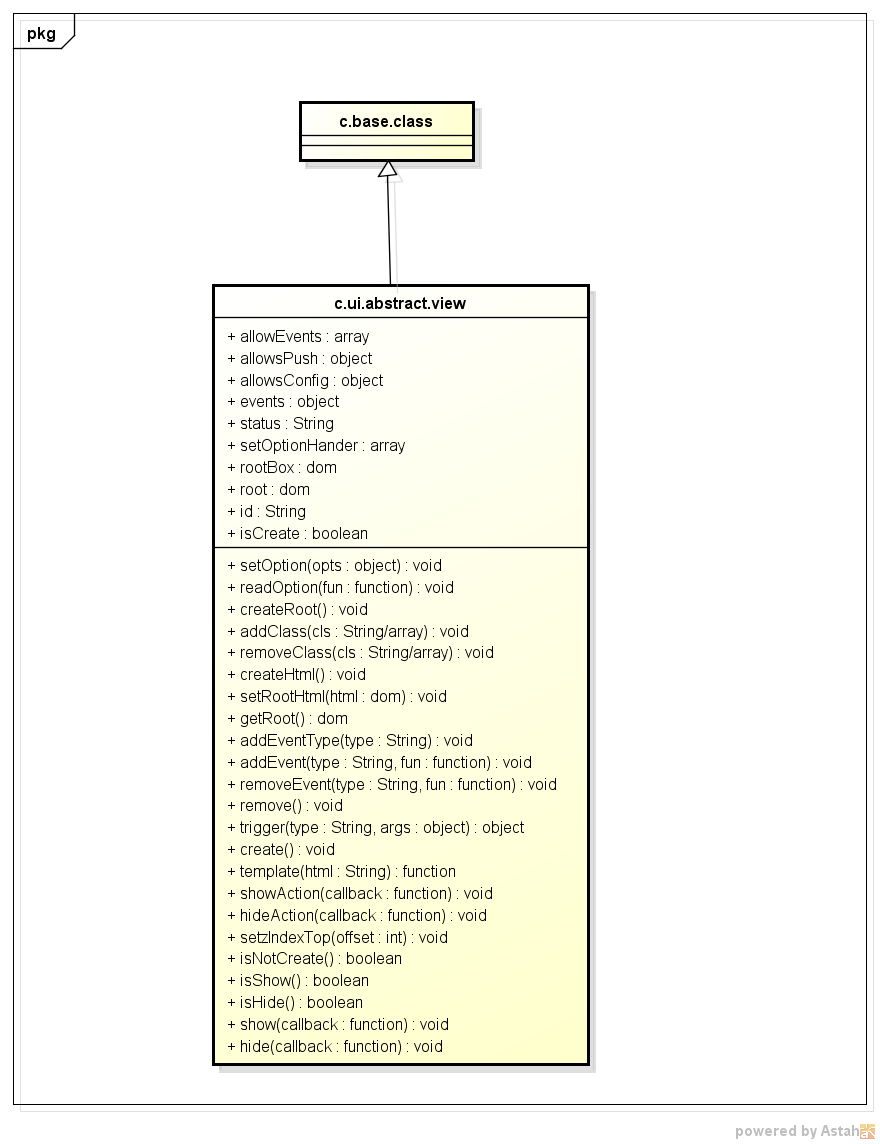
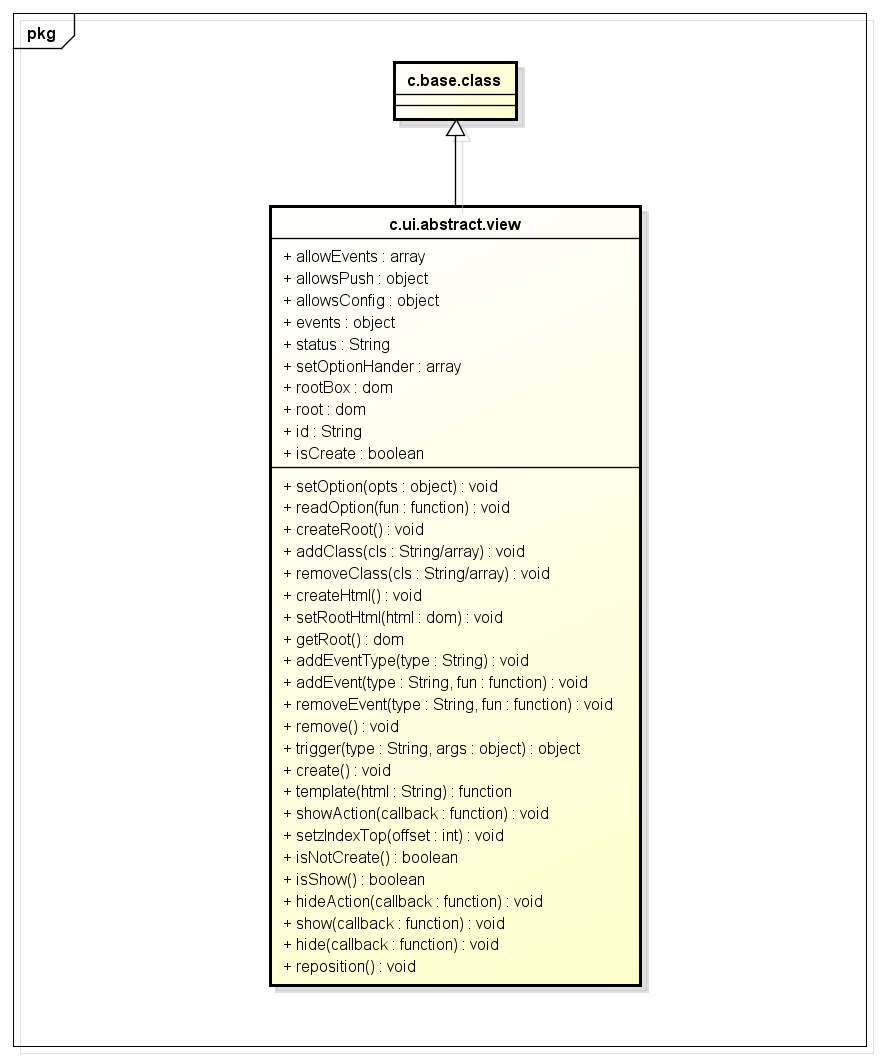
重构

diff --git a/doc/ui/c.ui.alert.md b/doc/ui/c.ui.alert.md
@@ -15,8 +15,7 @@
     // @param title {String}                标题
     // @param message {String}              内容体
     // @param buttons {array}               需要生成的按钮
-    // @param hashObervers {array}          监视hash变化（比如有弹出框点击后退时会关闭弹出框）
-    // @param autoPositionHander {function} 重置root高宽，让他占满屏幕
+    // @param viewdata {object}             模板视图文本
 
 ### Method
 
@@ -50,20 +49,6 @@
     // 返回模板组装后的html
     createHtml: function () { ... }
 
-**public autoposition**
-
-    // 视图位置还原（resize事件绑定）
-    autoposition: function () { ... }
-
-**public unautoposition**
-
-    // 视图位置还原（resize事件注销）
-    unautoposition: function () { ... }
-
-**public reposition**
-
-    // 视图位置还原方法（需要上移到abstractview）
-    reposition: function () { ... }
 
 ### 使用方法
 

diff --git a/doc/ui/c.ui.abstract.view.md b/doc/ui/c.ui.abstract.view.md
@@ -165,6 +165,11 @@
     // @param callback {function}
     show: function (callback) { ... }
 
+**public reposition**
+
+    // 多用于弹出层类view居中
+    reposition: function () { ... }
+
 ### 使用方法
 
 STEP 1: 在RequireJS中引入c.ui.input.mask
